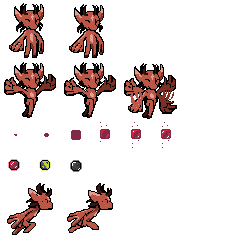
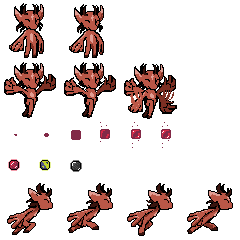
Cleaned Troika animation up a bit

diff --git a/lib/game/entities/player.js b/lib/game/entities/player.js
@@ -46,7 +46,7 @@ ig.module(
 
                 // Add the animations
                 this.addAnim( 'idle', .5, [0,1] );
-                this.addAnim( 'run',.2, [12,13] );
+                this.addAnim( 'run',.1, [12,13,14,15] );
 
                 this.addAnim( 'jump',.5, [4] );
                 this.addAnim( 'flappingWings',.05, [5,6] );
